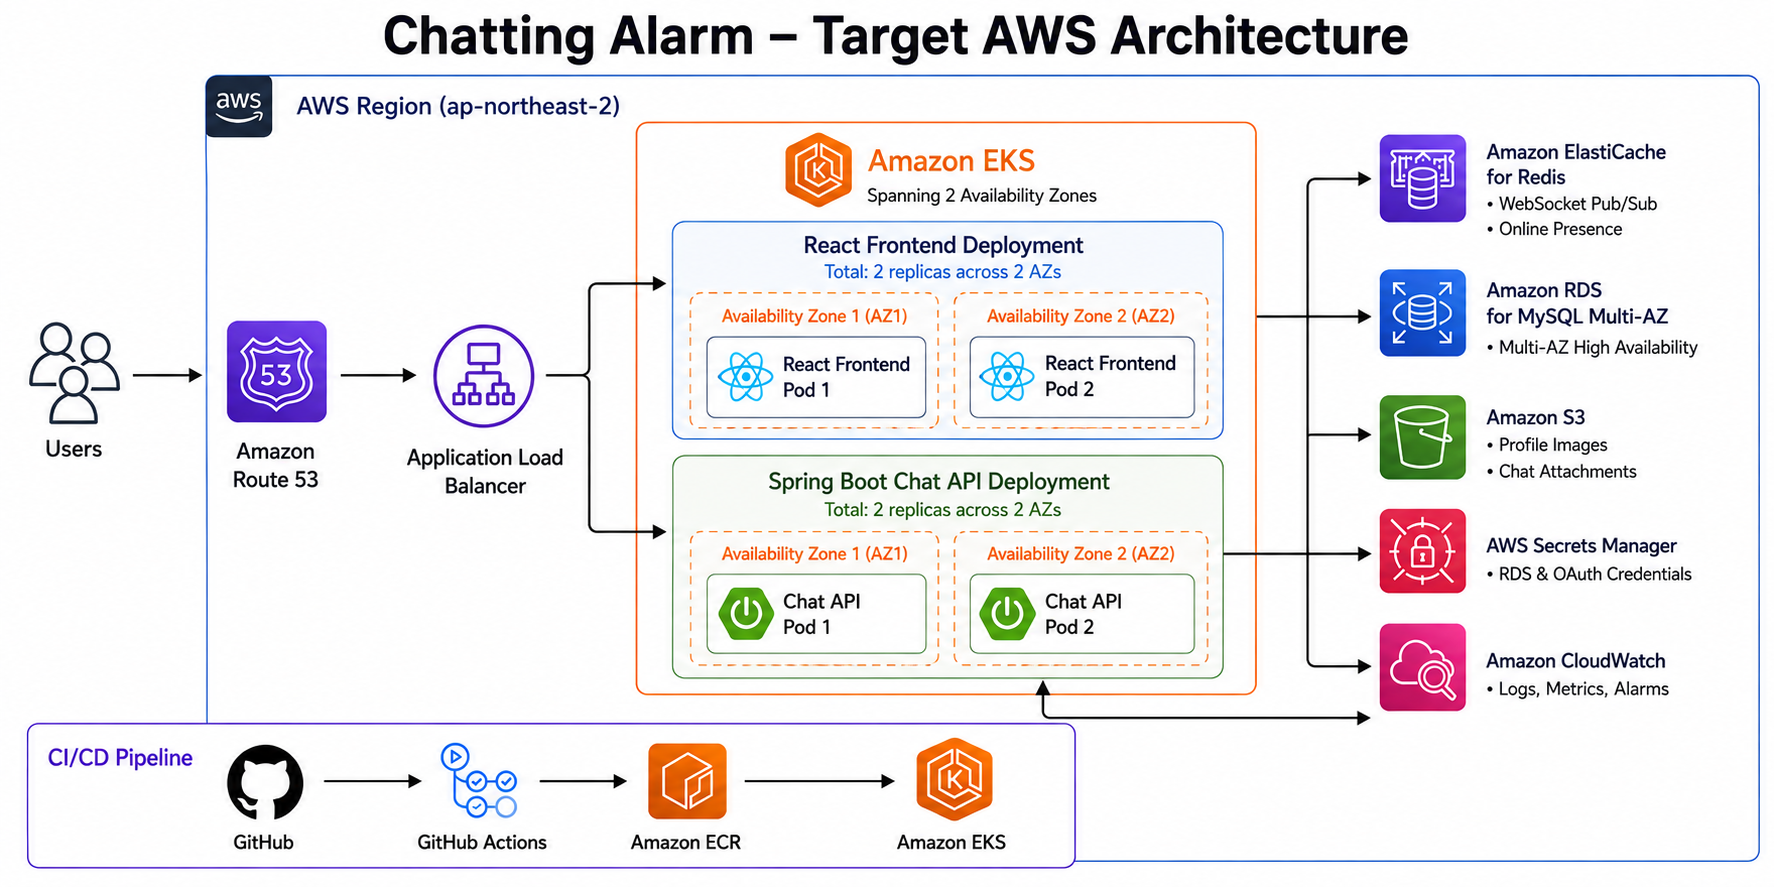
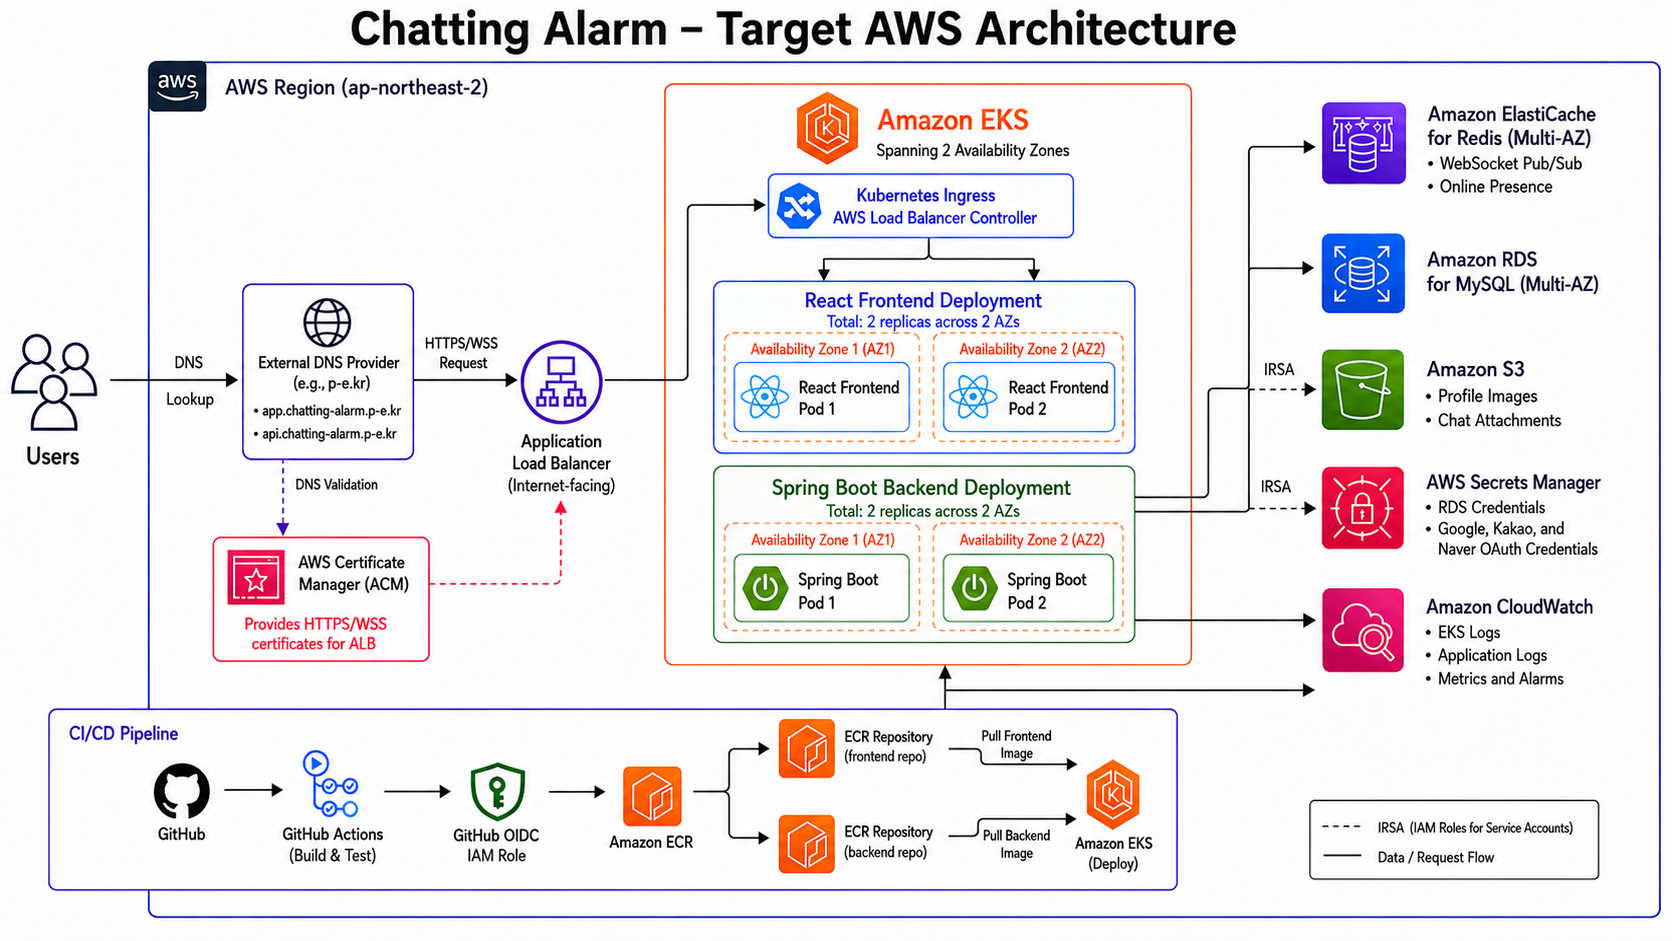
Update README and architecture image

Changed region(s): [[0.0, 0.0, 0.9952, 1.0]]

diff --git a/README.md b/README.md
@@ -1,30 +1,272 @@
 # Chatting Alarm
 
-- `frontend`: React + Vite, STOMP/SockJS 클라이언트
-- `backend`: Spring Boot, WebSocket/STOMP, JPA, MySQL
+Spring Boot와 React로 만든 실시간 채팅 서비스입니다.
+
+로컬에서는 Docker Compose로 실행하고, 운영 환경은 Terraform과 Kubernetes 매니페스트로 구성했습니다.
+
+[![Build and deploy](https://github.com/lty02-ops/chatting_alarm/actions/workflows/deploy.yml/badge.svg)](https://github.com/lty02-ops/chatting_alarm/actions/workflows/deploy.yml)
+
+## 주요 기능
+
+- Google, Naver, Kakao 소셜 로그인
+- WebSocket/STOMP 기반 실시간 채팅
+- 1:1 채팅과 단체 채팅방 생성
+- 친구 코드로 요청을 보내고 상대방이 수락하는 친구 추가 방식
+- 단체방 참여자 초대와 참여자 간 친구 요청
+- 온라인 상태와 현재 접속자 표시
+- 읽지 않은 메시지 알림
+- 파일 첨부, 다운로드 및 메시지 이모지 반응
+- 프로필 이름과 이미지 변경
+
+## 아키텍처
+
+### 전체 구성
+
+![Chatting Alarm AWS 아키텍처](image/architecture.png)
+
+DNS는 Route 53 대신 외부 DNS를 사용합니다. 사용자가 `app.chatting-alarm.p-e.kr` 또는 `api.chatting-alarm.p-e.kr`로 접속하면 ALB가 Kubernetes Ingress 규칙에 따라 프런트엔드와 백엔드로 요청을 나눠 보냅니다.
+
+프런트엔드와 백엔드는 각각 두 개의 Pod로 구성했습니다. 한 가용 영역에만 Pod가 몰리지 않도록 topology spread constraint를 설정했고, 유지보수 중 두 Pod가 동시에 내려가지 않도록 PodDisruptionBudget도 추가했습니다.
+
+### 상세 구성
+
+![Chatting Alarm 상세 AWS 아키텍처](image/architecture_detail.png)
+
+VPC는 서울 리전의 두 가용 영역에 걸쳐 있습니다. ALB와 NAT Gateway는 Public Subnet에 두고, EKS Worker Node는 Private App Subnet에 배치했습니다. Redis와 RDS도 각각 전용 Private Subnet을 사용합니다.
+
+채팅 메시지와 사용자 정보는 RDS MySQL에 저장합니다. Redis는 백엔드 Pod 사이에서 WebSocket 이벤트와 온라인 상태를 공유하기 위해 사용합니다. 프로필 이미지와 채팅 첨부파일은 S3에 저장합니다.
+
+백엔드 Pod에 Access Key를 넣고 싶지 않아 S3와 Secrets Manager 접근에는 IRSA를 사용했습니다. Kubernetes ServiceAccount가 IAM Role을 맡고 필요한 시점에 임시 자격 증명을 받는 방식입니다.
+
+CloudWatch에는 EKS와 애플리케이션 로그를 전송하고 RDS와 Redis의 주요 메트릭에 알람을 설정했습니다.
+
+### CI/CD
+
+```text
+GitHub → GitHub Actions → GitHub OIDC → ECR → EKS
+```
+
+`main` 브랜치에 push하면 GitHub Actions가 백엔드 테스트와 프런트엔드 빌드를 확인합니다. 검사가 끝나면 프런트엔드와 백엔드 Docker 이미지를 각각 ECR에 올리고 EKS Deployment 이미지를 변경합니다.
+
+AWS 인증에는 고정 Access Key 대신 GitHub OIDC를 사용했습니다.
+
+## 사용 기술
+
+### Application
+
+![Java 17](https://img.shields.io/badge/Java_17-ED8B00?style=flat-square&logo=openjdk&logoColor=white)
+![Spring Boot](https://img.shields.io/badge/Spring_Boot-6DB33F?style=flat-square&logo=springboot&logoColor=white)
+![Spring Security](https://img.shields.io/badge/Spring_Security-6DB33F?style=flat-square&logo=springsecurity&logoColor=white)
+![React](https://img.shields.io/badge/React-61DAFB?style=flat-square&logo=react&logoColor=black)
+![Vite](https://img.shields.io/badge/Vite-646CFF?style=flat-square&logo=vite&logoColor=white)
+![MySQL](https://img.shields.io/badge/MySQL_8-4479A1?style=flat-square&logo=mysql&logoColor=white)
+![Redis](https://img.shields.io/badge/Redis-DC382D?style=flat-square&logo=redis&logoColor=white)
+
+### Infrastructure
+
+![Docker](https://img.shields.io/badge/Docker-2496ED?style=flat-square&logo=docker&logoColor=white)
+![Kubernetes](https://img.shields.io/badge/Kubernetes-326CE5?style=flat-square&logo=kubernetes&logoColor=white)
+![Terraform](https://img.shields.io/badge/Terraform-844FBA?style=flat-square&logo=terraform&logoColor=white)
+![GitHub Actions](https://img.shields.io/badge/GitHub_Actions-2088FF?style=flat-square&logo=githubactions&logoColor=white)
+![AWS](https://img.shields.io/badge/AWS-232F3E?style=flat-square&logo=amazonwebservices&logoColor=white)
+
+- Backend: Java 17, Spring Boot, Spring Security, JPA, WebSocket/STOMP
+- Frontend: React, Vite, SockJS, STOMP.js
+- Data: MySQL, Redis, S3
+- AWS: EKS, ECR, ALB, RDS, ElastiCache, S3, Secrets Manager, ACM, CloudWatch
+- IaC/CI: Terraform, Kubernetes, Docker, GitHub Actions
+
 
 ## 로컬 실행
 
-```powershell
-cd backend
-.\gradlew.bat bootRun
+`.env.example`을 복사한 뒤 각 소셜 로그인 Client 정보를 입력합니다.
+
+```bash
+cp .env.example .env
 ```
 
-```powershell
-cd frontend
-npm install
-npm run dev
+```env
+GOOGLE_CLIENT_ID=
+GOOGLE_CLIENT_SECRET=
+
+NAVER_CLIENT_ID=
+NAVER_CLIENT_SECRET=
+
+KAKAO_CLIENT_ID=
+KAKAO_CLIENT_SECRET=
 ```
 
-`http://localhost:5173`으로 접속합니다. 배포 환경에서는 `VITE_API_BASE_URL=https://api.example.com`을 설정합니다.
-
-## 알림 API
-
-일반 채팅 메시지가 저장되면 같은 채팅방의 발신자를 제외한 참여자별 알림이 생성됩니다.
+로컬 Callback URL은 다음과 같이 등록했습니다.
 
 ```text
-GET   /notifications?recipient={nickname}
-PATCH /notifications/{id}/read
+Google: http://localhost:8000/login/oauth2/code/google
+Naver:  http://localhost:8000/login/oauth2/code/naver
+Kakao:  http://localhost:8000/login/oauth2/code/kakao
 ```
 
-현재 단계에서는 알림을 MySQL에 저장하고 조회·읽음 처리하며 Kafka와 FCM 전송은 포함하지 않습니다.
+실행:
+
+```bash
+docker compose up --build
+```
+
+브라우저에서 `http://localhost:3000`으로 접속합니다. 백엔드는 `http://localhost:8000`에서 실행됩니다.
+
+종료:
+
+```bash
+docker compose down
+```
+
+로컬 DB와 업로드 파일까지 지우려면 `-v` 옵션을 추가합니다.
+
+```bash
+docker compose down -v
+```
+
+## AWS 배포
+
+> EKS, NAT Gateway, ALB, RDS Multi-AZ, ElastiCache 등은 실행 시간 동안 비용이 발생합니다.
+
+### Terraform
+
+Terraform state를 저장할 S3 버킷은 Terraform 밖에서 먼저 생성합니다. 버킷 이름은 전역에서 유일해야 하며, 생성한 이름을 `infra/aws/backend.tf`에 입력합니다.
+
+```bash
+aws s3api create-bucket \
+  --bucket chatting-alarm-terraform-state-UNIQUE_SUFFIX \
+  --region ap-northeast-2 \
+  --create-bucket-configuration LocationConstraint=ap-northeast-2
+
+aws s3api put-bucket-versioning \
+  --bucket chatting-alarm-terraform-state-UNIQUE_SUFFIX \
+  --versioning-configuration Status=Enabled
+```
+
+변수 파일을 만들고 인프라를 배포합니다.
+
+```bash
+cd infra/aws
+cp terraform.tfvars.example terraform.tfvars
+
+terraform init -reconfigure
+terraform fmt -check
+terraform validate
+terraform plan
+terraform apply
+```
+
+ACM 인증서가 `PENDING_VALIDATION` 상태라면 출력된 CNAME을 외부 DNS에 등록합니다.
+
+```bash
+terraform output acm_dns_validation_records
+```
+
+Terraform이 만든 `chatting-alarm/dev/backend` Secret에는 Google, Kakao, Naver의 Client ID와 Secret을 입력합니다. 실제 값은 `tfvars`, Kubernetes YAML 또는 Git 저장소에 넣지 않습니다.
+
+### 초기 이미지와 Kubernetes 배포
+
+최초 배포에서는 Kubernetes가 사용할 이미지가 ECR에 아직 없기 때문에 한 번 직접 올립니다. 아래 명령은 프로젝트 루트에서 실행합니다.
+
+```bash
+AWS_REGION=ap-northeast-2
+AWS_ACCOUNT_ID="$(aws sts get-caller-identity --query Account --output text)"
+IMAGE_TAG=bootstrap
+
+BACKEND_REPOSITORY="$(terraform -chdir=infra/aws output -raw backend_ecr_repository_url)"
+FRONTEND_REPOSITORY="$(terraform -chdir=infra/aws output -raw frontend_ecr_repository_url)"
+
+aws ecr get-login-password --region "$AWS_REGION" \
+  | docker login --username AWS --password-stdin \
+      "$AWS_ACCOUNT_ID.dkr.ecr.$AWS_REGION.amazonaws.com"
+
+docker build -t "$BACKEND_REPOSITORY:$IMAGE_TAG" backend
+docker build \
+  --build-arg VITE_API_BASE_URL=https://api.chatting-alarm.p-e.kr \
+  -t "$FRONTEND_REPOSITORY:$IMAGE_TAG" frontend
+
+docker push "$BACKEND_REPOSITORY:$IMAGE_TAG"
+docker push "$FRONTEND_REPOSITORY:$IMAGE_TAG"
+```
+
+EKS kubeconfig을 만든 뒤 매니페스트를 적용합니다.
+
+```bash
+aws eks update-kubeconfig \
+  --region ap-northeast-2 \
+  --name "$(terraform -chdir=infra/aws output -raw eks_cluster_name)"
+
+cd infra/kubernetes
+chmod +x apply.sh
+IMAGE_TAG=bootstrap ./apply.sh
+```
+
+`apply.sh`는 Terraform output을 읽어 ECR URL, RDS와 Redis endpoint, S3 bucket, IAM Role ARN, ACM ARN을 매니페스트에 넣습니다.
+
+```bash
+kubectl get pods -n chatting-alarm
+kubectl get services -n chatting-alarm
+kubectl get ingress -n chatting-alarm
+```
+
+GitHub Actions에서 사용할 IAM Role ARN은 Repository Variable로 등록합니다.
+
+```bash
+terraform -chdir=infra/aws output -raw github_actions_role_arn
+```
+
+```text
+Settings → Secrets and variables → Actions → Variables
+Name: AWS_DEPLOY_ROLE_ARN
+```
+
+## 인프라 제거
+
+Ingress가 만든 ALB와 Security Group이 남아 있으면 VPC를 지울 수 없기 때문에 Kubernetes 리소스를 먼저 삭제합니다.
+
+```bash
+kubectl delete namespace chatting-alarm
+```
+
+ALB가 삭제된 것을 확인한 뒤 Terraform 리소스를 제거합니다.
+
+```bash
+cd infra/aws
+terraform plan -destroy
+terraform destroy
+```
+
+State용 S3 버킷은 Terraform 밖에서 만들었기 때문에 마지막에 별도로 비우고 삭제합니다.
+
+## TROUBLE SHOOTING
+
+### ALB Controller가 시작되지 않던 문제
+
+처음 ALB Controller를 배포했을 때 VPC ID를 EC2 Instance Metadata에서 가져오지 못해 `context deadline exceeded`가 발생했습니다. Worker Node의 메타데이터 설정만 바꾸는 대신 Controller 실행 인수에 `--aws-vpc-id`를 직접 전달했습니다. VPC ID는 하드코딩하지 않고 Terraform output에서 넣도록 했습니다.
+
+### GitHub Actions OIDC 인증 실패
+
+GitHub Actions에서 `sts:AssumeRoleWithWebIdentity` 권한 오류가 났습니다. Policy 권한 문제라고 생각했지만 실제 원인은 IAM Role Trust Policy의 `sub` 조건이 GitHub가 발급한 토큰과 맞지 않았던 것이었습니다.
+
+CloudTrail에서 실제 subject 값을 확인한 뒤 repository와 branch 조건을 수정했습니다. 이 과정에서 Role의 권한 Policy뿐 아니라 누가 Role을 맡을 수 있는지를 정하는 Trust Policy도 같이 확인해야 한다는 것을 알게 됐습니다.
+
+### 로컬에서는 되는데 EKS에서 파일 전송이 실패한 문제
+
+S3 권한과 IRSA Role은 정상인데 EKS에서만 파일 첨부가 실패했습니다. 로그를 확인해 보니 AWS SDK가 Web Identity Token으로 자격 증명을 만들 때 필요한 STS 모듈을 찾지 못하고 있었습니다.
+
+백엔드에 AWS SDK STS 의존성을 추가한 뒤 Access Key 없이 IRSA로 S3에 파일을 올릴 수 있었습니다.
+
+### 새 Pod가 Pending 상태에서 멈춘 문제
+
+두 개의 `t3.small` 노드에서 RollingUpdate를 실행할 때 기존 Pod와 새 Pod를 동시에 배치할 공간이 부족했습니다. 노드를 `t3.medium`으로 조정하고 프런트엔드 Deployment의 전략을 `maxUnavailable: 1`, `maxSurge: 0`으로 바꿨습니다. 새 Pod를 무조건 먼저 추가하지 않고 기존 Pod 하나를 내린 뒤 교체하도록 한 것입니다.
+
+## 아쉬운 점
+
+- 노드 그룹의 최대 크기는 늘려 두었지만 Cluster Autoscaler나 Karpenter는 아직 적용하지 않았습니다.
+- GitHub Actions는 이미지 교체까지 자동화하지만 Kubernetes 매니페스트 변경 전체를 자동으로 반영하지는 않습니다.
+- 외부 DNS와 ACM 검증 레코드는 직접 관리합니다.
+- 로컬 환경은 MySQL과 파일 볼륨만 사용하기 때문에 AWS의 Redis 및 Multi-AZ 환경까지 똑같이 재현하지는 않습니다.
+
+## 개발자
+
+- GitHub: [lty02-ops](https://github.com/lty02-ops)
